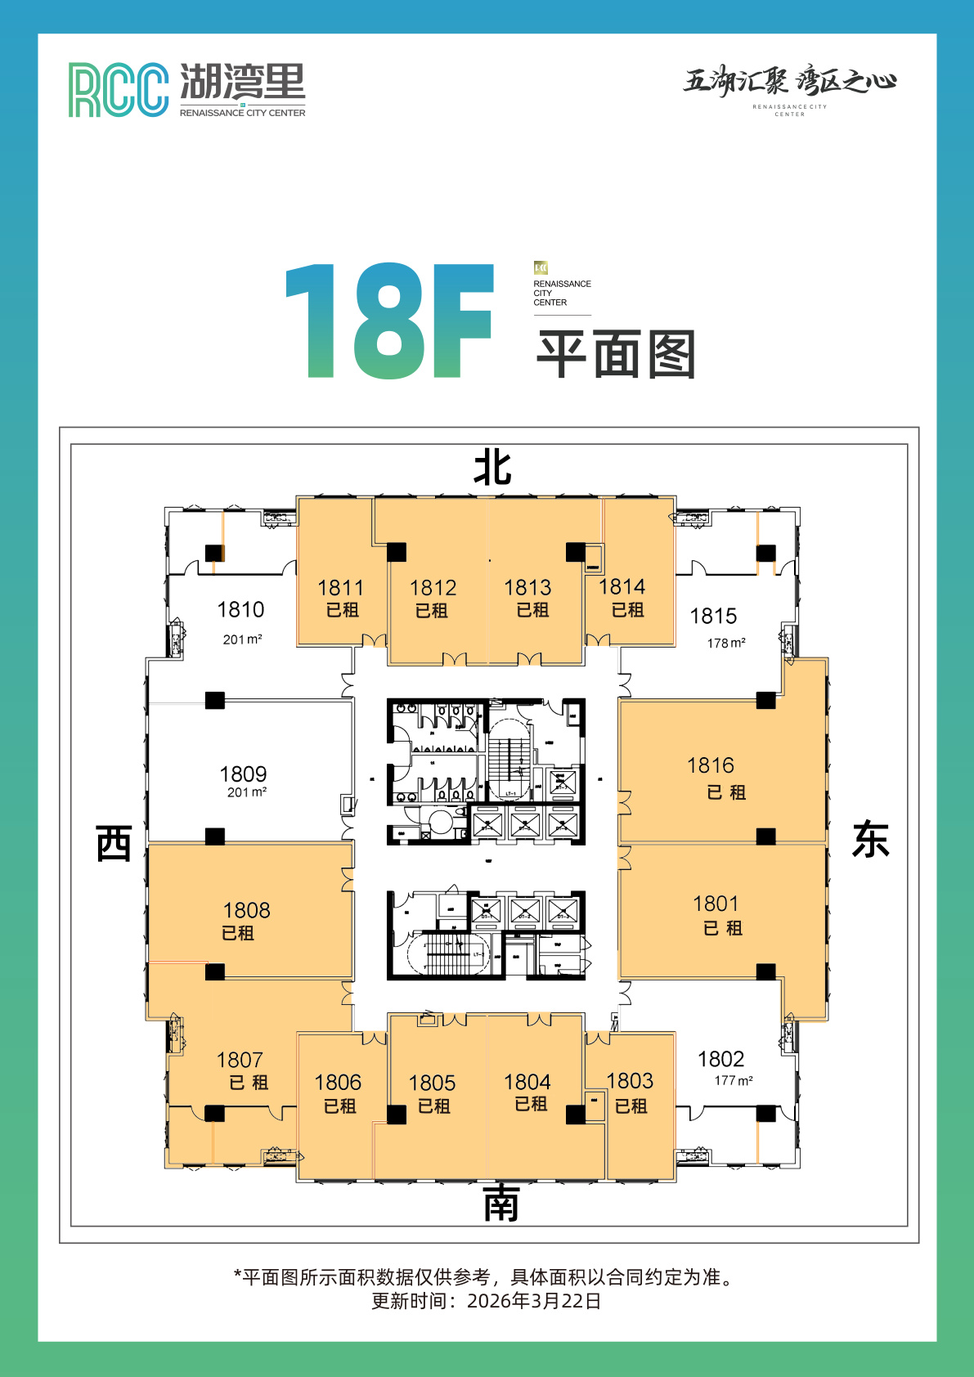
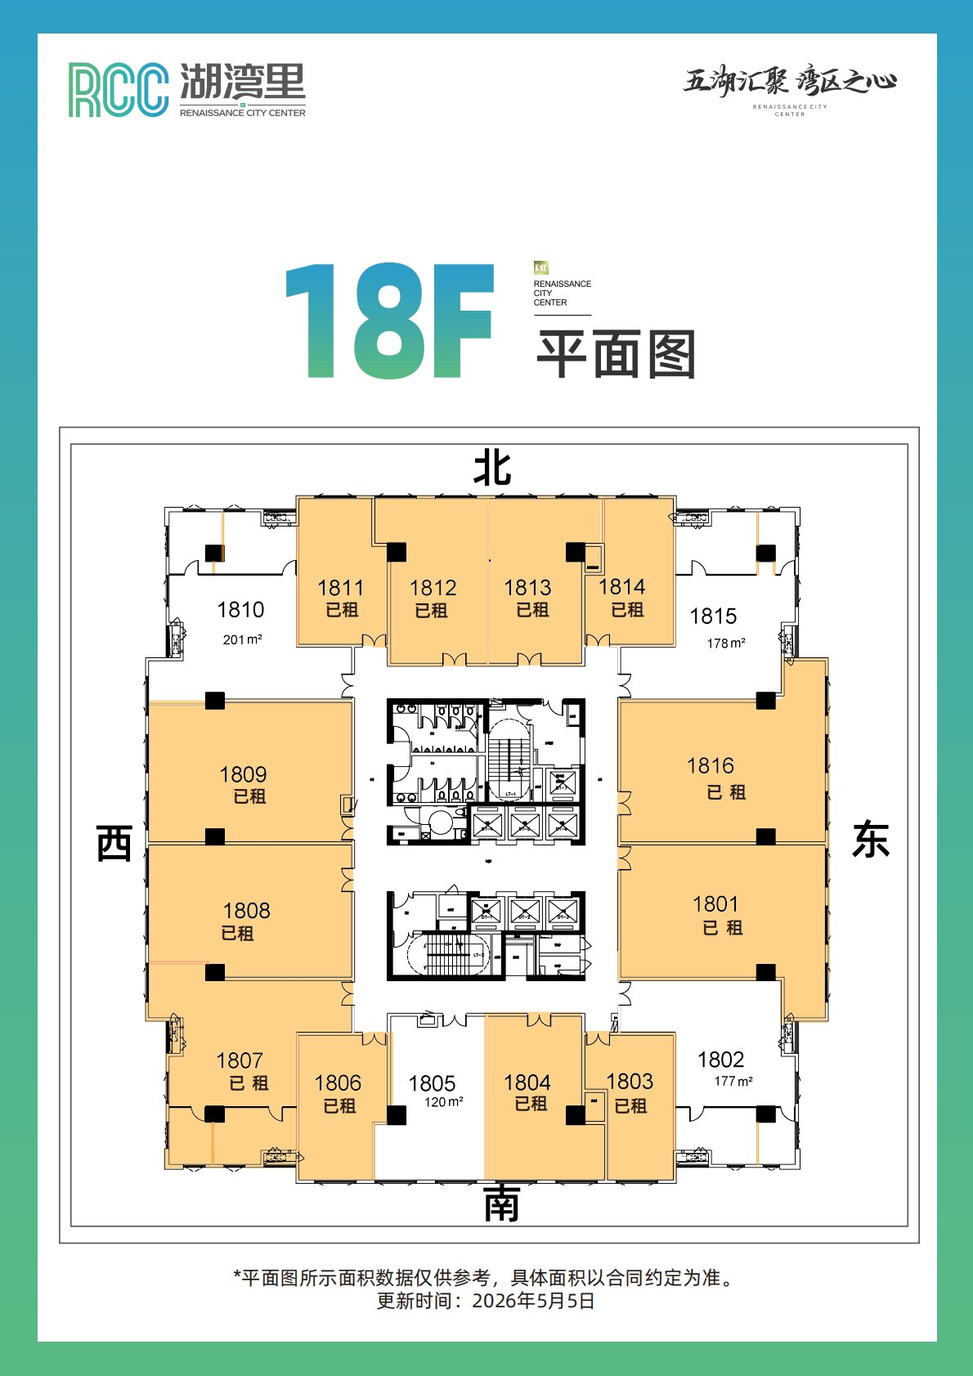
更新10/11/18/19/20F楼层图，新增11F，删除已租单元1006/1809/1916/2008/2009

diff --git a/index.html b/index.html
@@ -471,10 +471,10 @@
 </div>
 
 <script>
-const floorsOrder = ["1", "2", "4", "5", "6", "7", "8", "9", "10", "12", "13A", "15", "16", "17", "18", "19", "20", "22"];
-const floorUnits = {"5": [{"unit": "510", "area": 201.0, "price": 55.0, "special": 10800, "note": "双边采光 2+1"}], "6": [{"unit": "602", "area": 177.0, "price": 55.0, "special": 9500, "note": "双边采光 2+1"}, {"unit": "615", "area": 178.0, "price": 55.0, "special": 9500, "note": "双边采光 2+1"}], "8": [{"unit": "806", "area": 215.0, "price": 58.0, "special": 12000, "note": "方正好用大通间"}, {"unit": "807-1", "area": 176.0, "price": 55.0, "special": 9200, "note": "双边采光"}], "10": [{"unit": "1003", "area": 222.0, "price": 55.0, "special": 11800, "note": "双边采光 2+1"}, {"unit": "1006", "area": 246.0, "price": 58.0, "special": 13500, "note": "方正户型 1+1"}, {"unit": "1010", "area": 228.0, "price": 55.0, "special": 12200, "note": "双边采光 1+1"}], "12": [{"unit": "1207", "area": 192.0, "price": 56.0, "special": 10200, "note": "双边采光 2+1"}], "13A": [{"unit": "13A02", "area": 177.0, "price": 56.0, "special": 9500, "note": "双边采光 2+1"}, {"unit": "13A15", "area": 178.0, "price": 56.0, "special": 9500, "note": "双边采光 2+1"}], "16": [{"unit": "1605+1606", "area": 386.0, "price": 56.0, "special": 20800, "note": "带装修 4+1"}, {"unit": "1609-2", "area": 168.0, "price": 56.0, "special": 9000, "note": "双边采光"}], "17": [{"unit": "1702", "area": 263.0, "price": 57.0, "special": 13800, "note": "双边采光"}], "18": [{"unit": "1802", "area": 177.0, "price": 57.0, "special": 9600, "note": "双边采光 2+1"}, {"unit": "1809", "area": 201.0, "price": 58.0, "special": 11000, "note": "方正好用大通间"}, {"unit": "1810", "area": 201.0, "price": 57.0, "special": 11000, "note": "双边采光 2+1"}, {"unit": "1815", "area": 178.0, "price": 57.0, "special": 9600, "note": "双边采光 2+1"}], "19": [{"unit": "1907", "area": 179.0, "price": 62.0, "special": 10500, "note": "双边采光赠阳台"}, {"unit": "1916", "area": 218.0, "price": 60.0, "special": 12500, "note": "方正好用大通间"}], "20": [{"unit": "2002", "area": 157.0, "price": 60.0, "special": 9000, "note": "双边采光"}, {"unit": "2007", "area": 185.0, "price": 60.0, "special": 10500, "note": "双边采光"}, {"unit": "2008", "area": 186.0, "price": 62.0, "special": 10800, "note": "方正好用大通间"}, {"unit": "2009", "area": 201.0, "price": 62.0, "special": 11800, "note": "方正好用大通间"}, {"unit": "2015", "area": 160.0, "price": 60.0, "special": 9200, "note": "双边采光"}]};
-const floorImages = {"1": "https://cdn.jsdelivr.net/gh/wangmeiyi411830/RCC@main/floor_images/floor_1.jpg", "2": "https://cdn.jsdelivr.net/gh/wangmeiyi411830/RCC@main/floor_images/floor_2.jpg", "4": "https://cdn.jsdelivr.net/gh/wangmeiyi411830/RCC@main/floor_images/floor_4.jpg", "5": "https://cdn.jsdelivr.net/gh/wangmeiyi411830/RCC@main/floor_images/floor_5.jpg", "6": "https://cdn.jsdelivr.net/gh/wangmeiyi411830/RCC@main/floor_images/floor_6.jpg", "7": "https://cdn.jsdelivr.net/gh/wangmeiyi411830/RCC@main/floor_images/floor_7.jpg", "8": "https://cdn.jsdelivr.net/gh/wangmeiyi411830/RCC@main/floor_images/floor_8.jpg", "9": "https://cdn.jsdelivr.net/gh/wangmeiyi411830/RCC@main/floor_images/floor_9.jpg", "10": "https://cdn.jsdelivr.net/gh/wangmeiyi411830/RCC@main/floor_images/floor_10.jpg", "12": "https://cdn.jsdelivr.net/gh/wangmeiyi411830/RCC@main/floor_images/floor_12.jpg", "13A": "https://cdn.jsdelivr.net/gh/wangmeiyi411830/RCC@main/floor_images/floor_13A.jpg", "15": "https://cdn.jsdelivr.net/gh/wangmeiyi411830/RCC@main/floor_images/floor_15.jpg", "16": "https://cdn.jsdelivr.net/gh/wangmeiyi411830/RCC@main/floor_images/floor_16.jpg", "17": "https://cdn.jsdelivr.net/gh/wangmeiyi411830/RCC@main/floor_images/floor_17.jpg", "18": "https://cdn.jsdelivr.net/gh/wangmeiyi411830/RCC@main/floor_images/floor_18.jpg", "19": "https://cdn.jsdelivr.net/gh/wangmeiyi411830/RCC@main/floor_images/floor_19.jpg", "20": "https://cdn.jsdelivr.net/gh/wangmeiyi411830/RCC@main/floor_images/floor_20.jpg", "22": "https://cdn.jsdelivr.net/gh/wangmeiyi411830/RCC@main/floor_images/floor_22.jpg"};
-const unitPhotos = {"1003": ["https://cdn.jsdelivr.net/gh/wangmeiyi411830/RCC@main/unit_images/1003-1.png", "https://cdn.jsdelivr.net/gh/wangmeiyi411830/RCC@main/unit_images/1003-2.jpg", "https://cdn.jsdelivr.net/gh/wangmeiyi411830/RCC@main/unit_images/1003-3.jpg", "https://cdn.jsdelivr.net/gh/wangmeiyi411830/RCC@main/unit_images/1003-4.jpg"], "1006": ["https://cdn.jsdelivr.net/gh/wangmeiyi411830/RCC@main/unit_images/1006-1.png", "https://cdn.jsdelivr.net/gh/wangmeiyi411830/RCC@main/unit_images/1006-2.jpg", "https://cdn.jsdelivr.net/gh/wangmeiyi411830/RCC@main/unit_images/1006-3.jpg", "https://cdn.jsdelivr.net/gh/wangmeiyi411830/RCC@main/unit_images/1006-4.jpg", "https://cdn.jsdelivr.net/gh/wangmeiyi411830/RCC@main/unit_images/1006-5.jpg"], "1010": ["https://cdn.jsdelivr.net/gh/wangmeiyi411830/RCC@main/unit_images/1010-1.png", "https://cdn.jsdelivr.net/gh/wangmeiyi411830/RCC@main/unit_images/1010-2.jpg", "https://cdn.jsdelivr.net/gh/wangmeiyi411830/RCC@main/unit_images/1010-3.jpg"], "1207": ["https://cdn.jsdelivr.net/gh/wangmeiyi411830/RCC@main/unit_images/1207-1.png", "https://cdn.jsdelivr.net/gh/wangmeiyi411830/RCC@main/unit_images/1207-2.jpg", "https://cdn.jsdelivr.net/gh/wangmeiyi411830/RCC@main/unit_images/1207-3.jpg", "https://cdn.jsdelivr.net/gh/wangmeiyi411830/RCC@main/unit_images/1207-4.jpg"], "1212": ["https://cdn.jsdelivr.net/gh/wangmeiyi411830/RCC@main/unit_images/1212-1.png", "https://cdn.jsdelivr.net/gh/wangmeiyi411830/RCC@main/unit_images/1212-2.jpg", "https://cdn.jsdelivr.net/gh/wangmeiyi411830/RCC@main/unit_images/1212-3.jpg"], "1213": ["https://cdn.jsdelivr.net/gh/wangmeiyi411830/RCC@main/unit_images/1213-1.png", "https://cdn.jsdelivr.net/gh/wangmeiyi411830/RCC@main/unit_images/1213-2.jpg", "https://cdn.jsdelivr.net/gh/wangmeiyi411830/RCC@main/unit_images/1213-3.jpg", "https://cdn.jsdelivr.net/gh/wangmeiyi411830/RCC@main/unit_images/1213-4.jpg"], "13A02": ["https://cdn.jsdelivr.net/gh/wangmeiyi411830/RCC@main/unit_images/13A02-1.png", "https://cdn.jsdelivr.net/gh/wangmeiyi411830/RCC@main/unit_images/13A02-3.jpg", "https://cdn.jsdelivr.net/gh/wangmeiyi411830/RCC@main/unit_images/13A02-4.jpg", "https://cdn.jsdelivr.net/gh/wangmeiyi411830/RCC@main/unit_images/13A02-5.jpg"], "13A15": ["https://cdn.jsdelivr.net/gh/wangmeiyi411830/RCC@main/unit_images/13A15-1.png", "https://cdn.jsdelivr.net/gh/wangmeiyi411830/RCC@main/unit_images/13A15-2.jpg", "https://cdn.jsdelivr.net/gh/wangmeiyi411830/RCC@main/unit_images/13A15-3.jpg", "https://cdn.jsdelivr.net/gh/wangmeiyi411830/RCC@main/unit_images/13A15-4.jpg", "https://cdn.jsdelivr.net/gh/wangmeiyi411830/RCC@main/unit_images/13A15-5.jpg"], "1605+1606": ["https://cdn.jsdelivr.net/gh/wangmeiyi411830/RCC@main/unit_images/1605+1606-1.png", "https://cdn.jsdelivr.net/gh/wangmeiyi411830/RCC@main/unit_images/1605+1606-2.jpg", "https://cdn.jsdelivr.net/gh/wangmeiyi411830/RCC@main/unit_images/1605+1606-3.jpg", "https://cdn.jsdelivr.net/gh/wangmeiyi411830/RCC@main/unit_images/1605+1606-4.jpg", "https://cdn.jsdelivr.net/gh/wangmeiyi411830/RCC@main/unit_images/1605+1606-5.jpg"], "1609-2": ["https://cdn.jsdelivr.net/gh/wangmeiyi411830/RCC@main/unit_images/1609-2-1.png", "https://cdn.jsdelivr.net/gh/wangmeiyi411830/RCC@main/unit_images/1609-2-2.jpg", "https://cdn.jsdelivr.net/gh/wangmeiyi411830/RCC@main/unit_images/1609-2-3.jpg"], "1702": ["https://cdn.jsdelivr.net/gh/wangmeiyi411830/RCC@main/unit_images/1702-1.png", "https://cdn.jsdelivr.net/gh/wangmeiyi411830/RCC@main/unit_images/1702-2.jpg", "https://cdn.jsdelivr.net/gh/wangmeiyi411830/RCC@main/unit_images/1702-3.jpg"], "1802": ["https://cdn.jsdelivr.net/gh/wangmeiyi411830/RCC@main/unit_images/1802-1.png", "https://cdn.jsdelivr.net/gh/wangmeiyi411830/RCC@main/unit_images/1802-2.jpg", "https://cdn.jsdelivr.net/gh/wangmeiyi411830/RCC@main/unit_images/1802-3.jpg", "https://cdn.jsdelivr.net/gh/wangmeiyi411830/RCC@main/unit_images/1802-4.jpg"], "1809": ["https://cdn.jsdelivr.net/gh/wangmeiyi411830/RCC@main/unit_images/1809-1.png", "https://cdn.jsdelivr.net/gh/wangmeiyi411830/RCC@main/unit_images/1809-2.jpg", "https://cdn.jsdelivr.net/gh/wangmeiyi411830/RCC@main/unit_images/1809-3.jpg"], "1810": ["https://cdn.jsdelivr.net/gh/wangmeiyi411830/RCC@main/unit_images/1810-1.png", "https://cdn.jsdelivr.net/gh/wangmeiyi411830/RCC@main/unit_images/1810-2.jpg", "https://cdn.jsdelivr.net/gh/wangmeiyi411830/RCC@main/unit_images/1810-3.jpg", "https://cdn.jsdelivr.net/gh/wangmeiyi411830/RCC@main/unit_images/1810-4.jpg"], "1815": ["https://cdn.jsdelivr.net/gh/wangmeiyi411830/RCC@main/unit_images/1815-1.png", "https://cdn.jsdelivr.net/gh/wangmeiyi411830/RCC@main/unit_images/1815-2.jpg", "https://cdn.jsdelivr.net/gh/wangmeiyi411830/RCC@main/unit_images/1815-3.jpg", "https://cdn.jsdelivr.net/gh/wangmeiyi411830/RCC@main/unit_images/1815-4.jpg", "https://cdn.jsdelivr.net/gh/wangmeiyi411830/RCC@main/unit_images/1815-5.jpg"], "1902": ["https://cdn.jsdelivr.net/gh/wangmeiyi411830/RCC@main/unit_images/1902-1.png", "https://cdn.jsdelivr.net/gh/wangmeiyi411830/RCC@main/unit_images/1902-2.jpg", "https://cdn.jsdelivr.net/gh/wangmeiyi411830/RCC@main/unit_images/1902-3.jpg", "https://cdn.jsdelivr.net/gh/wangmeiyi411830/RCC@main/unit_images/1902-4.jpg"], "1904": ["https://cdn.jsdelivr.net/gh/wangmeiyi411830/RCC@main/unit_images/1904-1.png", "https://cdn.jsdelivr.net/gh/wangmeiyi411830/RCC@main/unit_images/1904-2.jpg", "https://cdn.jsdelivr.net/gh/wangmeiyi411830/RCC@main/unit_images/1904-3.jpg"], "1907": ["https://cdn.jsdelivr.net/gh/wangmeiyi411830/RCC@main/unit_images/1907-1.png", "https://cdn.jsdelivr.net/gh/wangmeiyi411830/RCC@main/unit_images/1907-2.jpg", "https://cdn.jsdelivr.net/gh/wangmeiyi411830/RCC@main/unit_images/1907-3.jpg", "https://cdn.jsdelivr.net/gh/wangmeiyi411830/RCC@main/unit_images/1907-4.jpg", "https://cdn.jsdelivr.net/gh/wangmeiyi411830/RCC@main/unit_images/1907-5.jpg"], "1916": ["https://cdn.jsdelivr.net/gh/wangmeiyi411830/RCC@main/unit_images/1916-1.png", "https://cdn.jsdelivr.net/gh/wangmeiyi411830/RCC@main/unit_images/1916-2.jpg", "https://cdn.jsdelivr.net/gh/wangmeiyi411830/RCC@main/unit_images/1916-3.jpg"], "2002": ["https://cdn.jsdelivr.net/gh/wangmeiyi411830/RCC@main/unit_images/2002-1.png", "https://cdn.jsdelivr.net/gh/wangmeiyi411830/RCC@main/unit_images/2002-2.jpg", "https://cdn.jsdelivr.net/gh/wangmeiyi411830/RCC@main/unit_images/2002-3.jpg"], "2007": ["https://cdn.jsdelivr.net/gh/wangmeiyi411830/RCC@main/unit_images/2007-1.png", "https://cdn.jsdelivr.net/gh/wangmeiyi411830/RCC@main/unit_images/2007-2.jpg", "https://cdn.jsdelivr.net/gh/wangmeiyi411830/RCC@main/unit_images/2007-3.jpg", "https://cdn.jsdelivr.net/gh/wangmeiyi411830/RCC@main/unit_images/2007-4.jpg"], "2008": ["https://cdn.jsdelivr.net/gh/wangmeiyi411830/RCC@main/unit_images/2008-1.png", "https://cdn.jsdelivr.net/gh/wangmeiyi411830/RCC@main/unit_images/2008-2.jpg", "https://cdn.jsdelivr.net/gh/wangmeiyi411830/RCC@main/unit_images/2008-3.jpg"], "2009": ["https://cdn.jsdelivr.net/gh/wangmeiyi411830/RCC@main/unit_images/2009-1.png", "https://cdn.jsdelivr.net/gh/wangmeiyi411830/RCC@main/unit_images/2009-2.jpg", "https://cdn.jsdelivr.net/gh/wangmeiyi411830/RCC@main/unit_images/2009-3.jpg"], "2012": ["https://cdn.jsdelivr.net/gh/wangmeiyi411830/RCC@main/unit_images/2012-1.png", "https://cdn.jsdelivr.net/gh/wangmeiyi411830/RCC@main/unit_images/2012-2.jpg", "https://cdn.jsdelivr.net/gh/wangmeiyi411830/RCC@main/unit_images/2012-3.jpg", "https://cdn.jsdelivr.net/gh/wangmeiyi411830/RCC@main/unit_images/2012-4.jpg"], "2013": ["https://cdn.jsdelivr.net/gh/wangmeiyi411830/RCC@main/unit_images/2013-1.png", "https://cdn.jsdelivr.net/gh/wangmeiyi411830/RCC@main/unit_images/2013-2.jpg", "https://cdn.jsdelivr.net/gh/wangmeiyi411830/RCC@main/unit_images/2013-3.jpg"], "2015": ["https://cdn.jsdelivr.net/gh/wangmeiyi411830/RCC@main/unit_images/2015-1.png", "https://cdn.jsdelivr.net/gh/wangmeiyi411830/RCC@main/unit_images/2015-2.jpg"], "504": ["https://cdn.jsdelivr.net/gh/wangmeiyi411830/RCC@main/unit_images/504-1.png", "https://cdn.jsdelivr.net/gh/wangmeiyi411830/RCC@main/unit_images/504-2.jpg", "https://cdn.jsdelivr.net/gh/wangmeiyi411830/RCC@main/unit_images/504-3.jpg"], "510": ["https://cdn.jsdelivr.net/gh/wangmeiyi411830/RCC@main/unit_images/510-1.png", "https://cdn.jsdelivr.net/gh/wangmeiyi411830/RCC@main/unit_images/510-2.jpg", "https://cdn.jsdelivr.net/gh/wangmeiyi411830/RCC@main/unit_images/510-3.jpg"], "602": ["https://cdn.jsdelivr.net/gh/wangmeiyi411830/RCC@main/unit_images/602-1.png", "https://cdn.jsdelivr.net/gh/wangmeiyi411830/RCC@main/unit_images/602-2.jpg", "https://cdn.jsdelivr.net/gh/wangmeiyi411830/RCC@main/unit_images/602-3.jpg"], "615": ["https://cdn.jsdelivr.net/gh/wangmeiyi411830/RCC@main/unit_images/615-1.png", "https://cdn.jsdelivr.net/gh/wangmeiyi411830/RCC@main/unit_images/615-2.jpg", "https://cdn.jsdelivr.net/gh/wangmeiyi411830/RCC@main/unit_images/615-3.jpg"], "806": ["https://cdn.jsdelivr.net/gh/wangmeiyi411830/RCC@main/unit_images/806-1.png", "https://cdn.jsdelivr.net/gh/wangmeiyi411830/RCC@main/unit_images/806-2.jpg"], "807-1": ["https://cdn.jsdelivr.net/gh/wangmeiyi411830/RCC@main/unit_images/807-1-1.png", "https://cdn.jsdelivr.net/gh/wangmeiyi411830/RCC@main/unit_images/807-1-2.jpg", "https://cdn.jsdelivr.net/gh/wangmeiyi411830/RCC@main/unit_images/807-1-3.jpg"]};
+const floorsOrder = ["1", "2", "4", "5", "6", "7", "8", "9", "10", "11", "12", "13A", "15", "16", "17", "18", "19", "20", "22"];
+const floorUnits = {"5": [{"unit": "510", "area": 201.0, "price": 55.0, "special": 10800, "note": "双边采光 2+1"}], "6": [{"unit": "602", "area": 177.0, "price": 55.0, "special": 9500, "note": "双边采光 2+1"}, {"unit": "615", "area": 178.0, "price": 55.0, "special": 9500, "note": "双边采光 2+1"}], "8": [{"unit": "806", "area": 215.0, "price": 58.0, "special": 12000, "note": "方正好用大通间"}, {"unit": "807-1", "area": 176.0, "price": 55.0, "special": 9200, "note": "双边采光"}], "10": [{"unit": "1003", "area": 222.0, "price": 55.0, "special": 11800, "note": "双边采光 2+1"}, {"unit": "1010", "area": 228.0, "price": 55.0, "special": 12200, "note": "双边采光 1+1"}], "12": [{"unit": "1207", "area": 192.0, "price": 56.0, "special": 10200, "note": "双边采光 2+1"}], "13A": [{"unit": "13A02", "area": 177.0, "price": 56.0, "special": 9500, "note": "双边采光 2+1"}, {"unit": "13A15", "area": 178.0, "price": 56.0, "special": 9500, "note": "双边采光 2+1"}], "16": [{"unit": "1605+1606", "area": 386.0, "price": 56.0, "special": 20800, "note": "带装修 4+1"}, {"unit": "1609-2", "area": 168.0, "price": 56.0, "special": 9000, "note": "双边采光"}], "17": [{"unit": "1702", "area": 263.0, "price": 57.0, "special": 13800, "note": "双边采光"}], "18": [{"unit": "1802", "area": 177.0, "price": 57.0, "special": 9600, "note": "双边采光 2+1"}, {"unit": "1810", "area": 201.0, "price": 57.0, "special": 11000, "note": "双边采光 2+1"}, {"unit": "1815", "area": 178.0, "price": 57.0, "special": 9600, "note": "双边采光 2+1"}], "19": [{"unit": "1907", "area": 179.0, "price": 62.0, "special": 10500, "note": "双边采光赠阳台"}], "20": [{"unit": "2002", "area": 157.0, "price": 60.0, "special": 9000, "note": "双边采光"}, {"unit": "2007", "area": 185.0, "price": 60.0, "special": 10500, "note": "双边采光"}, {"unit": "2015", "area": 160.0, "price": 60.0, "special": 9200, "note": "双边采光"}]};
+const floorImages = {"1": "https://cdn.jsdelivr.net/gh/wangmeiyi411830/RCC@main/floor_images/floor_1.jpg", "2": "https://cdn.jsdelivr.net/gh/wangmeiyi411830/RCC@main/floor_images/floor_2.jpg", "4": "https://cdn.jsdelivr.net/gh/wangmeiyi411830/RCC@main/floor_images/floor_4.jpg", "5": "https://cdn.jsdelivr.net/gh/wangmeiyi411830/RCC@main/floor_images/floor_5.jpg", "6": "https://cdn.jsdelivr.net/gh/wangmeiyi411830/RCC@main/floor_images/floor_6.jpg", "7": "https://cdn.jsdelivr.net/gh/wangmeiyi411830/RCC@main/floor_images/floor_7.jpg", "8": "https://cdn.jsdelivr.net/gh/wangmeiyi411830/RCC@main/floor_images/floor_8.jpg", "9": "https://cdn.jsdelivr.net/gh/wangmeiyi411830/RCC@main/floor_images/floor_9.jpg", "10": "https://cdn.jsdelivr.net/gh/wangmeiyi411830/RCC@main/floor_images/floor_10.jpg", "11": "https://cdn.jsdelivr.net/gh/wangmeiyi411830/RCC@main/floor_images/floor_11.jpg", "12": "https://cdn.jsdelivr.net/gh/wangmeiyi411830/RCC@main/floor_images/floor_12.jpg", "13A": "https://cdn.jsdelivr.net/gh/wangmeiyi411830/RCC@main/floor_images/floor_13A.jpg", "15": "https://cdn.jsdelivr.net/gh/wangmeiyi411830/RCC@main/floor_images/floor_15.jpg", "16": "https://cdn.jsdelivr.net/gh/wangmeiyi411830/RCC@main/floor_images/floor_16.jpg", "17": "https://cdn.jsdelivr.net/gh/wangmeiyi411830/RCC@main/floor_images/floor_17.jpg", "18": "https://cdn.jsdelivr.net/gh/wangmeiyi411830/RCC@main/floor_images/floor_18.jpg", "19": "https://cdn.jsdelivr.net/gh/wangmeiyi411830/RCC@main/floor_images/floor_19.jpg", "20": "https://cdn.jsdelivr.net/gh/wangmeiyi411830/RCC@main/floor_images/floor_20.jpg", "22": "https://cdn.jsdelivr.net/gh/wangmeiyi411830/RCC@main/floor_images/floor_22.jpg"};
+const unitPhotos = {"1003": ["https://cdn.jsdelivr.net/gh/wangmeiyi411830/RCC@main/unit_images/1003-1.png", "https://cdn.jsdelivr.net/gh/wangmeiyi411830/RCC@main/unit_images/1003-2.jpg", "https://cdn.jsdelivr.net/gh/wangmeiyi411830/RCC@main/unit_images/1003-3.jpg", "https://cdn.jsdelivr.net/gh/wangmeiyi411830/RCC@main/unit_images/1003-4.jpg"], "1010": ["https://cdn.jsdelivr.net/gh/wangmeiyi411830/RCC@main/unit_images/1010-1.png", "https://cdn.jsdelivr.net/gh/wangmeiyi411830/RCC@main/unit_images/1010-2.jpg", "https://cdn.jsdelivr.net/gh/wangmeiyi411830/RCC@main/unit_images/1010-3.jpg"], "1207": ["https://cdn.jsdelivr.net/gh/wangmeiyi411830/RCC@main/unit_images/1207-1.png", "https://cdn.jsdelivr.net/gh/wangmeiyi411830/RCC@main/unit_images/1207-2.jpg", "https://cdn.jsdelivr.net/gh/wangmeiyi411830/RCC@main/unit_images/1207-3.jpg", "https://cdn.jsdelivr.net/gh/wangmeiyi411830/RCC@main/unit_images/1207-4.jpg"], "1212": ["https://cdn.jsdelivr.net/gh/wangmeiyi411830/RCC@main/unit_images/1212-1.png", "https://cdn.jsdelivr.net/gh/wangmeiyi411830/RCC@main/unit_images/1212-2.jpg", "https://cdn.jsdelivr.net/gh/wangmeiyi411830/RCC@main/unit_images/1212-3.jpg"], "1213": ["https://cdn.jsdelivr.net/gh/wangmeiyi411830/RCC@main/unit_images/1213-1.png", "https://cdn.jsdelivr.net/gh/wangmeiyi411830/RCC@main/unit_images/1213-2.jpg", "https://cdn.jsdelivr.net/gh/wangmeiyi411830/RCC@main/unit_images/1213-3.jpg", "https://cdn.jsdelivr.net/gh/wangmeiyi411830/RCC@main/unit_images/1213-4.jpg"], "13A02": ["https://cdn.jsdelivr.net/gh/wangmeiyi411830/RCC@main/unit_images/13A02-1.png", "https://cdn.jsdelivr.net/gh/wangmeiyi411830/RCC@main/unit_images/13A02-3.jpg", "https://cdn.jsdelivr.net/gh/wangmeiyi411830/RCC@main/unit_images/13A02-4.jpg", "https://cdn.jsdelivr.net/gh/wangmeiyi411830/RCC@main/unit_images/13A02-5.jpg"], "13A15": ["https://cdn.jsdelivr.net/gh/wangmeiyi411830/RCC@main/unit_images/13A15-1.png", "https://cdn.jsdelivr.net/gh/wangmeiyi411830/RCC@main/unit_images/13A15-2.jpg", "https://cdn.jsdelivr.net/gh/wangmeiyi411830/RCC@main/unit_images/13A15-3.jpg", "https://cdn.jsdelivr.net/gh/wangmeiyi411830/RCC@main/unit_images/13A15-4.jpg", "https://cdn.jsdelivr.net/gh/wangmeiyi411830/RCC@main/unit_images/13A15-5.jpg"], "1605+1606": ["https://cdn.jsdelivr.net/gh/wangmeiyi411830/RCC@main/unit_images/1605+1606-1.png", "https://cdn.jsdelivr.net/gh/wangmeiyi411830/RCC@main/unit_images/1605+1606-2.jpg", "https://cdn.jsdelivr.net/gh/wangmeiyi411830/RCC@main/unit_images/1605+1606-3.jpg", "https://cdn.jsdelivr.net/gh/wangmeiyi411830/RCC@main/unit_images/1605+1606-4.jpg", "https://cdn.jsdelivr.net/gh/wangmeiyi411830/RCC@main/unit_images/1605+1606-5.jpg"], "1609-2": ["https://cdn.jsdelivr.net/gh/wangmeiyi411830/RCC@main/unit_images/1609-2-1.png", "https://cdn.jsdelivr.net/gh/wangmeiyi411830/RCC@main/unit_images/1609-2-2.jpg", "https://cdn.jsdelivr.net/gh/wangmeiyi411830/RCC@main/unit_images/1609-2-3.jpg"], "1702": ["https://cdn.jsdelivr.net/gh/wangmeiyi411830/RCC@main/unit_images/1702-1.png", "https://cdn.jsdelivr.net/gh/wangmeiyi411830/RCC@main/unit_images/1702-2.jpg", "https://cdn.jsdelivr.net/gh/wangmeiyi411830/RCC@main/unit_images/1702-3.jpg"], "1802": ["https://cdn.jsdelivr.net/gh/wangmeiyi411830/RCC@main/unit_images/1802-1.png", "https://cdn.jsdelivr.net/gh/wangmeiyi411830/RCC@main/unit_images/1802-2.jpg", "https://cdn.jsdelivr.net/gh/wangmeiyi411830/RCC@main/unit_images/1802-3.jpg", "https://cdn.jsdelivr.net/gh/wangmeiyi411830/RCC@main/unit_images/1802-4.jpg"], "1810": ["https://cdn.jsdelivr.net/gh/wangmeiyi411830/RCC@main/unit_images/1810-1.png", "https://cdn.jsdelivr.net/gh/wangmeiyi411830/RCC@main/unit_images/1810-2.jpg", "https://cdn.jsdelivr.net/gh/wangmeiyi411830/RCC@main/unit_images/1810-3.jpg", "https://cdn.jsdelivr.net/gh/wangmeiyi411830/RCC@main/unit_images/1810-4.jpg"], "1815": ["https://cdn.jsdelivr.net/gh/wangmeiyi411830/RCC@main/unit_images/1815-1.png", "https://cdn.jsdelivr.net/gh/wangmeiyi411830/RCC@main/unit_images/1815-2.jpg", "https://cdn.jsdelivr.net/gh/wangmeiyi411830/RCC@main/unit_images/1815-3.jpg", "https://cdn.jsdelivr.net/gh/wangmeiyi411830/RCC@main/unit_images/1815-4.jpg", "https://cdn.jsdelivr.net/gh/wangmeiyi411830/RCC@main/unit_images/1815-5.jpg"], "1902": ["https://cdn.jsdelivr.net/gh/wangmeiyi411830/RCC@main/unit_images/1902-1.png", "https://cdn.jsdelivr.net/gh/wangmeiyi411830/RCC@main/unit_images/1902-2.jpg", "https://cdn.jsdelivr.net/gh/wangmeiyi411830/RCC@main/unit_images/1902-3.jpg", "https://cdn.jsdelivr.net/gh/wangmeiyi411830/RCC@main/unit_images/1902-4.jpg"], "1904": ["https://cdn.jsdelivr.net/gh/wangmeiyi411830/RCC@main/unit_images/1904-1.png", "https://cdn.jsdelivr.net/gh/wangmeiyi411830/RCC@main/unit_images/1904-2.jpg", "https://cdn.jsdelivr.net/gh/wangmeiyi411830/RCC@main/unit_images/1904-3.jpg"], "1907": ["https://cdn.jsdelivr.net/gh/wangmeiyi411830/RCC@main/unit_images/1907-1.png", "https://cdn.jsdelivr.net/gh/wangmeiyi411830/RCC@main/unit_images/1907-2.jpg", "https://cdn.jsdelivr.net/gh/wangmeiyi411830/RCC@main/unit_images/1907-3.jpg", "https://cdn.jsdelivr.net/gh/wangmeiyi411830/RCC@main/unit_images/1907-4.jpg", "https://cdn.jsdelivr.net/gh/wangmeiyi411830/RCC@main/unit_images/1907-5.jpg"], "2002": ["https://cdn.jsdelivr.net/gh/wangmeiyi411830/RCC@main/unit_images/2002-1.png", "https://cdn.jsdelivr.net/gh/wangmeiyi411830/RCC@main/unit_images/2002-2.jpg", "https://cdn.jsdelivr.net/gh/wangmeiyi411830/RCC@main/unit_images/2002-3.jpg"], "2007": ["https://cdn.jsdelivr.net/gh/wangmeiyi411830/RCC@main/unit_images/2007-1.png", "https://cdn.jsdelivr.net/gh/wangmeiyi411830/RCC@main/unit_images/2007-2.jpg", "https://cdn.jsdelivr.net/gh/wangmeiyi411830/RCC@main/unit_images/2007-3.jpg", "https://cdn.jsdelivr.net/gh/wangmeiyi411830/RCC@main/unit_images/2007-4.jpg"], "2012": ["https://cdn.jsdelivr.net/gh/wangmeiyi411830/RCC@main/unit_images/2012-1.png", "https://cdn.jsdelivr.net/gh/wangmeiyi411830/RCC@main/unit_images/2012-2.jpg", "https://cdn.jsdelivr.net/gh/wangmeiyi411830/RCC@main/unit_images/2012-3.jpg", "https://cdn.jsdelivr.net/gh/wangmeiyi411830/RCC@main/unit_images/2012-4.jpg"], "2013": ["https://cdn.jsdelivr.net/gh/wangmeiyi411830/RCC@main/unit_images/2013-1.png", "https://cdn.jsdelivr.net/gh/wangmeiyi411830/RCC@main/unit_images/2013-2.jpg", "https://cdn.jsdelivr.net/gh/wangmeiyi411830/RCC@main/unit_images/2013-3.jpg"], "2015": ["https://cdn.jsdelivr.net/gh/wangmeiyi411830/RCC@main/unit_images/2015-1.png", "https://cdn.jsdelivr.net/gh/wangmeiyi411830/RCC@main/unit_images/2015-2.jpg"], "504": ["https://cdn.jsdelivr.net/gh/wangmeiyi411830/RCC@main/unit_images/504-1.png", "https://cdn.jsdelivr.net/gh/wangmeiyi411830/RCC@main/unit_images/504-2.jpg", "https://cdn.jsdelivr.net/gh/wangmeiyi411830/RCC@main/unit_images/504-3.jpg"], "510": ["https://cdn.jsdelivr.net/gh/wangmeiyi411830/RCC@main/unit_images/510-1.png", "https://cdn.jsdelivr.net/gh/wangmeiyi411830/RCC@main/unit_images/510-2.jpg", "https://cdn.jsdelivr.net/gh/wangmeiyi411830/RCC@main/unit_images/510-3.jpg"], "602": ["https://cdn.jsdelivr.net/gh/wangmeiyi411830/RCC@main/unit_images/602-1.png", "https://cdn.jsdelivr.net/gh/wangmeiyi411830/RCC@main/unit_images/602-2.jpg", "https://cdn.jsdelivr.net/gh/wangmeiyi411830/RCC@main/unit_images/602-3.jpg"], "615": ["https://cdn.jsdelivr.net/gh/wangmeiyi411830/RCC@main/unit_images/615-1.png", "https://cdn.jsdelivr.net/gh/wangmeiyi411830/RCC@main/unit_images/615-2.jpg", "https://cdn.jsdelivr.net/gh/wangmeiyi411830/RCC@main/unit_images/615-3.jpg"], "806": ["https://cdn.jsdelivr.net/gh/wangmeiyi411830/RCC@main/unit_images/806-1.png", "https://cdn.jsdelivr.net/gh/wangmeiyi411830/RCC@main/unit_images/806-2.jpg"], "807-1": ["https://cdn.jsdelivr.net/gh/wangmeiyi411830/RCC@main/unit_images/807-1-1.png", "https://cdn.jsdelivr.net/gh/wangmeiyi411830/RCC@main/unit_images/807-1-2.jpg", "https://cdn.jsdelivr.net/gh/wangmeiyi411830/RCC@main/unit_images/807-1-3.jpg"]};
 
 let carouselIndex = 0;
 let carouselPhotos = [];

diff --git a/build_vis_github.py b/build_vis_github.py
@@ -48,7 +48,7 @@ for _, row in df.iterrows():
 print('Unit data loaded OK')
 
 # ── 2. Floor images → GitHub URL ──────────────────────────────────────────────
-floors_order = [1,2,4,5,6,7,8,9,10,12,'13A',15,16,17,18,19,20,22]
+floors_order = [1,2,4,5,6,7,8,9,10,11,12,'13A',15,16,17,18,19,20,22]
 floor_images = {}
 img_dir = os.path.join(BASE_DIR, 'floor_images')
 for floor in floors_order:
